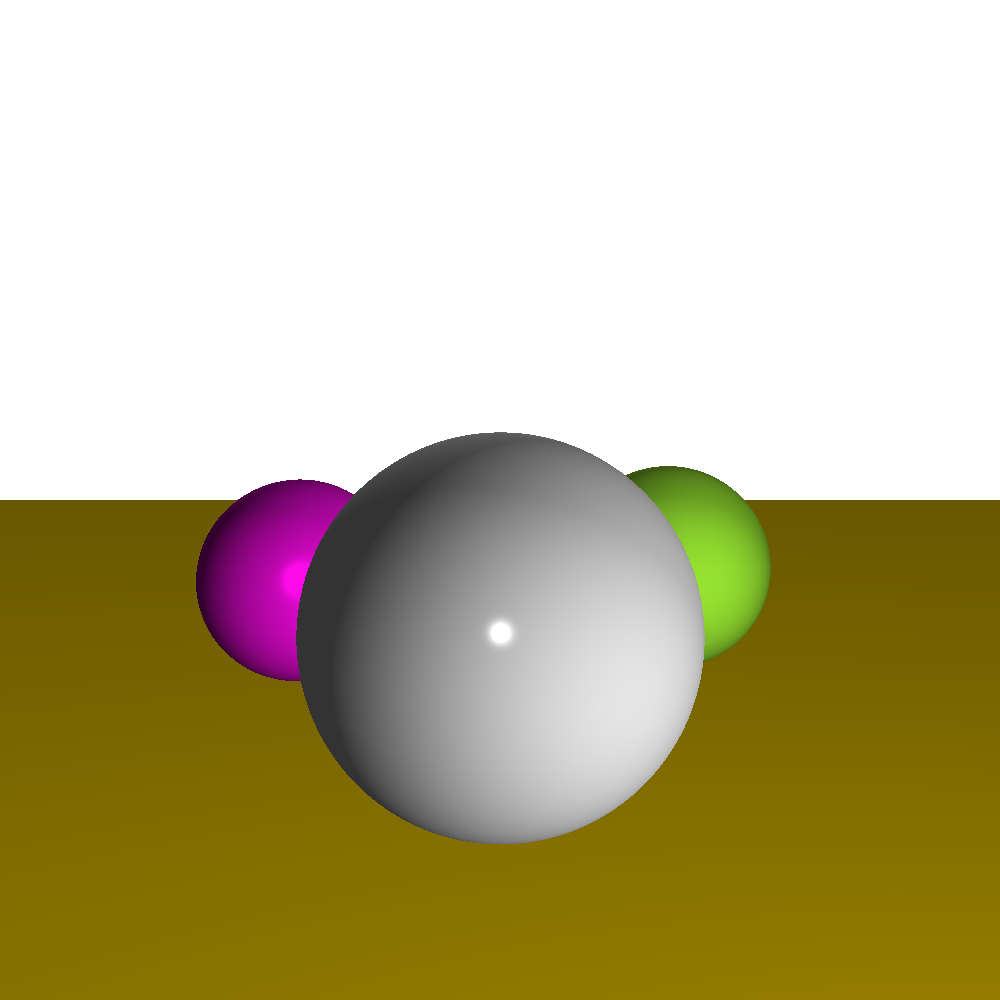
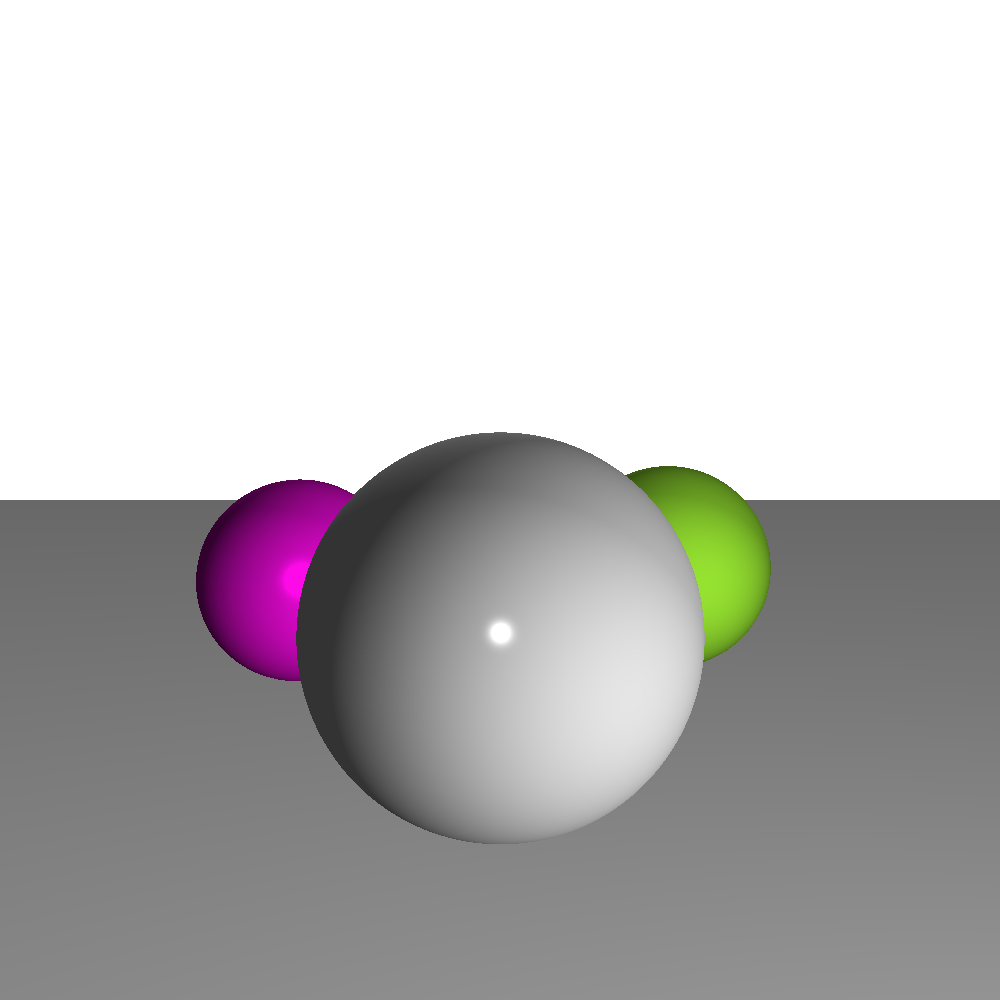
preview image changed

diff --git a/src/Program.cs b/src/Program.cs
@@ -36,12 +36,11 @@ namespace RainRTX
                 pointLights = new PointLight[] { new PointLight(0.7f, new Vector3(2, 1, 0)) },
                 directionalLights = new DirectionalLight[] { new DirectionalLight(0.3f, new Vector3(1, 4, 4)) },
 
-                Ground = new Ground { specular = 10, color = Color.Gold},
+                Ground = new Ground { specular = 10, color = Color.White},
 
                 Spheres = new Sphere[]
                 {
                     new Sphere(new Vector3(-1, 1.6f, 5), 0.5f, new Color24(252,10,232),100),
-                  //  new Sphere(new Vector3(0,-5001,100),5000, new Color24(159,163,151)),
                     new Sphere(new Vector3(0, 1.6f, 3),0.6f, Color.White, 800),
                     new Sphere(new Vector3(1, 1.6f, 6),0.6f, new Color24(167,252,55), 800)
                 }
